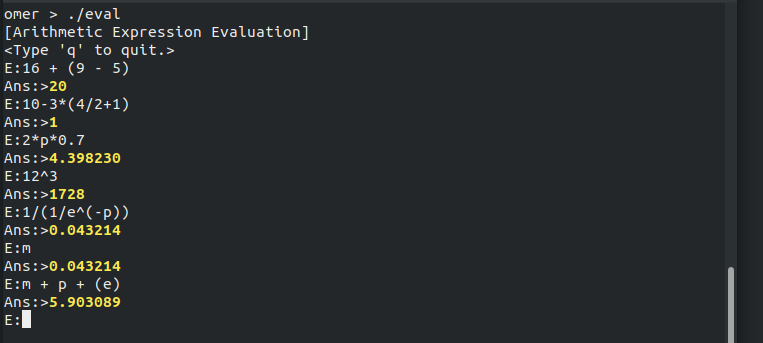
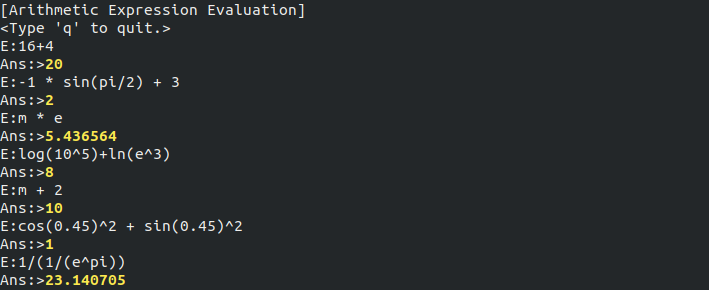
floats converted to long doubles

Changed region(s): [[0.0, 0.0, 0.4344, 0.9931], [0.9309, 0.7759, 0.9619, 1.0]]

diff --git a/arthm.c b/arthm.c
@@ -14,14 +14,18 @@
 #define ANSI_COLOR_YELLOW "\x1b[01;33m"
 #define ANSI_COLOR_RESET "\x1b[0m"
 
+#ifdef DEBUG
 #define _DEBUG 1
+#else
+#define _DEBUG 0
+#endif
 
 int evalStatus;
 char statusInfo[256];
-float formerAns = 0;
+long double formerAns = 0;
 
 typedef struct {
-  float item[MAX_STACK];
+  long double item[MAX_STACK];
   int top;
 } STACK;
 
@@ -45,7 +49,7 @@ int isFull(STACK *s) {
   }
 }
 
-int push(STACK *s, float x) {
+int push(STACK *s, long double x) {
   if (isFull(s)) {
     return 0;
   }
@@ -55,7 +59,7 @@ int push(STACK *s, float x) {
   return 1;
 }
 
-int pop(STACK *s, float *x) {
+int pop(STACK *s, long double *x) {
   if (isEmpty(s)) {
     return 0;
   }
@@ -65,7 +69,7 @@ int pop(STACK *s, float *x) {
   return 1;
 }
 
-int peek(STACK *s, float *x) {
+int peek(STACK *s, long double *x) {
   if (isEmpty(s)) {
     return 0;
   }
@@ -149,9 +153,9 @@ int getFunctionNum(char *fname) {
   return -1;
 }
 
-int getConstant(char *fname, float *constVal) {
+int getConstant(char *fname, long double *constVal) {
   char *constNames[3] = {"pi", "e", "m"};
-  float constVals[3] = {PI_CONST, EU_CONST, formerAns};
+  long double constVals[3] = {PI_CONST, EU_CONST, formerAns};
   int i = 0;
   // Check for constants
   while (i < 3) {
@@ -170,7 +174,7 @@ int getConstant(char *fname, float *constVal) {
 char **strToArray(char *in, int slen, int *ilen) {
   char **str = (char **)malloc(sizeof(char *) * slen * 2);
   char tmp[MAX_CHAR_IN];
-  float constVal;
+  long double constVal;
   int i = 0, arrIndex = 0, t = 0, funcNum,
       textNumState = 0; // textNumState 1:text 2:num 0:don't care
 
@@ -194,7 +198,7 @@ char **strToArray(char *in, int slen, int *ilen) {
 
         } else if (getConstant(tmp, &constVal)) {
           // Operand is a constant
-          sprintf(tmp, "%f", constVal);
+          sprintf(tmp, "%Lf", constVal);
           strcpy(str[arrIndex++], tmp);
 
         } else {
@@ -244,7 +248,7 @@ char **strToArray(char *in, int slen, int *ilen) {
 
         } else if (getConstant(tmp, &constVal)) {
           // Operand is a constant
-          sprintf(tmp, "%f", constVal);
+          sprintf(tmp, "%Lf", constVal);
           strcpy(str[arrIndex++], tmp);
 
         } else {
@@ -282,7 +286,7 @@ char **strToArray(char *in, int slen, int *ilen) {
 
     } else if (getConstant(tmp, &constVal)) {
       // Operand is a constant
-      sprintf(tmp, "%f", constVal);
+      sprintf(tmp, "%Lf", constVal);
       strcpy(str[arrIndex++], tmp);
 
     } else {
@@ -300,7 +304,7 @@ char **infixToPostfix(char **in, int ilen, int *plen) {
   char **postf = (char **)malloc(sizeof(char *) * ilen);
   STACK *s = (STACK *)malloc(sizeof(STACK));
   int i, p = 0;
-  float tmp;
+  long double tmp;
   char op[MAX_CHAR_IN];
   initStack(s);
 
@@ -349,8 +353,8 @@ char **infixToPostfix(char **in, int ilen, int *plen) {
   return postf;
 }
 
-float mathFunction(int func_num, float input) {
-  float ans;
+long double mathFunction(int func_num, long double input) {
+  long double ans;
 
   switch (func_num) {
   case 0:
@@ -406,8 +410,8 @@ float mathFunction(int func_num, float input) {
   return ans;
 }
 
-float perform(char op, float op1, float op2) {
-  float ans;
+long double perform(char op, long double op1, long double op2) {
+  long double ans;
 
   switch (op) {
   case '+':
@@ -438,11 +442,11 @@ float perform(char op, float op1, float op2) {
 }
 
 /* Evaluate the operations, with using stack */
-float evalPostfix(char **postf, int plen) {
+long double evalPostfix(char **postf, int plen) {
   STACK *s = (STACK *)malloc(sizeof(STACK));
   initStack(s);
   int i;
-  float op1, op2;
+  long double op1, op2;
 
   for (i = 0; i < plen; i++) {
     if (isdigit(postf[i][0]) || (strlen(postf[i]) > 2 && postf[i][0] == '-')) {
@@ -484,7 +488,7 @@ void preProcess(char *infix, char *clean) {
 /* Returns 1 if the expression has balanced pharentheses*/
 int validCheck(char *in, int ilen) {
   STACK *s = (STACK *)malloc(sizeof(STACK));
-  float ch;
+  long double ch;
   int i;
   initStack(s);
 
@@ -519,10 +523,10 @@ int validCheck(char *in, int ilen) {
 
 /* Evaluates and returns the answer. status will be set to -1 if any error
  * occurs */
-float evalExpression(char *exp) {
+long double evalExpression(char *exp) {
   char **postf, **infix;
   int ilen, plen;
-  float ans;
+  long double ans;
 
   // Preprocess
   char *clean = (char *)malloc(sizeof(char) * MAX_CHAR_IN);
@@ -565,7 +569,7 @@ float evalExpression(char *exp) {
 int main() {
   char in[MAX_CHAR_IN];
   int status;
-  float ans;
+  long double ans;
   printf(ANSI_COLOR_RESET);
   printf("[Arithmetic Expression Evaluation]\n<Type 'q' to quit.>\n");
 
@@ -587,7 +591,7 @@ int main() {
         printf("%d\n", (int)ans);
       } else {
 
-        printf("%f\n", ans);
+        printf("%Lf\n", ans);
       }
       formerAns = ans;
 
